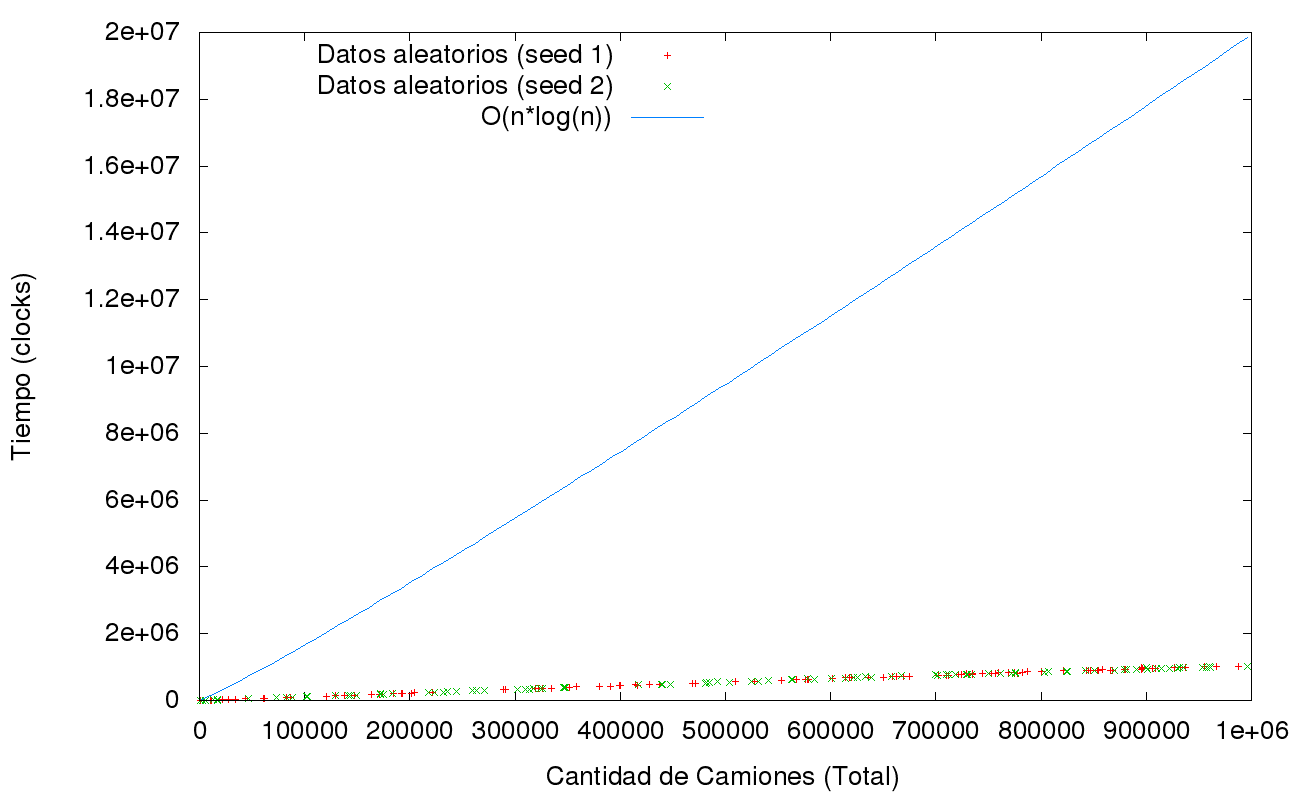
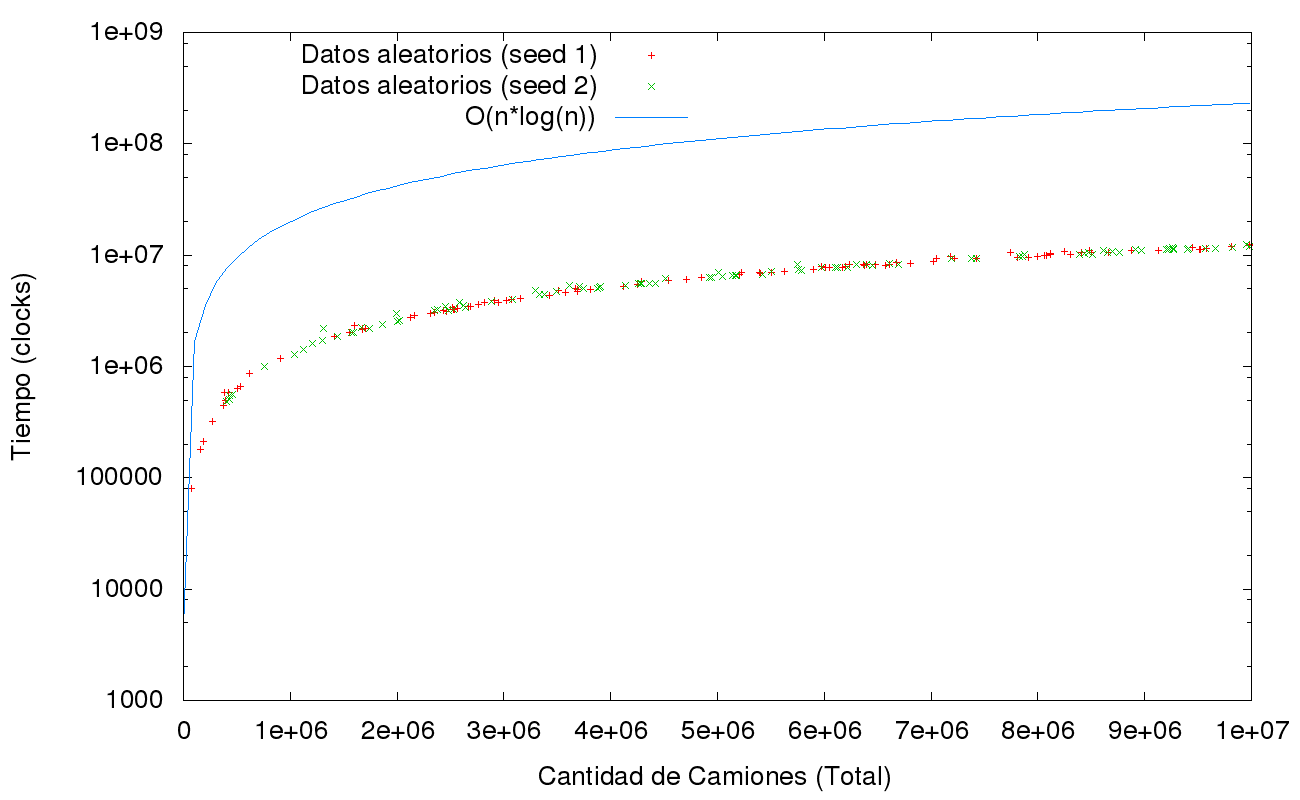
graf ej1 en logscale

diff --git a/tp1/ej1/test.cpp b/tp1/ej1/test.cpp
@@ -34,10 +34,11 @@ int main(int argc, char *argv[])
 			clock_t t = clock();
 			resolver(*camionesLista, periodo);
 			t = clock() - t;
-			float t_float = (float)t/log2f((float)nroCamiones);
+			//float t_float = (float)t/log2f((float)nroCamiones);
 		
+			cout << nroCamiones << "\t" << t << endl;
 			
-			cout << nroCamiones << "\t" << t_float << endl;
+			//cout << nroCamiones << "\t" << t_float << endl;
 			delete camionesLista;	
 		}
 	}
